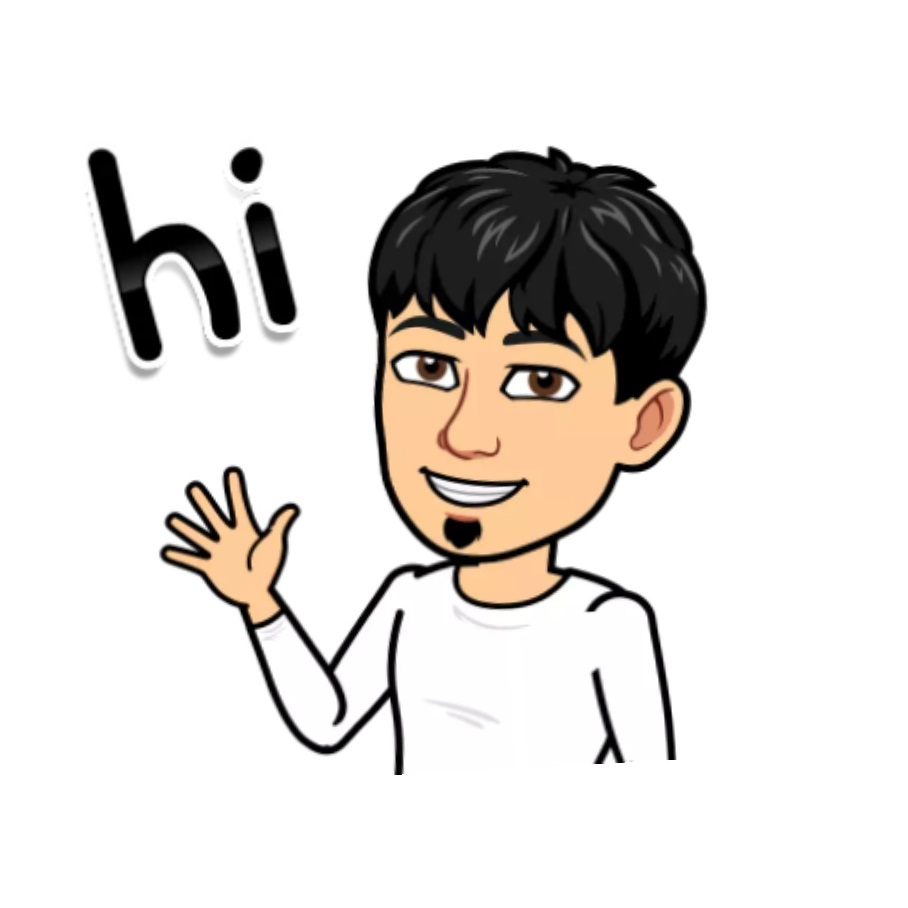
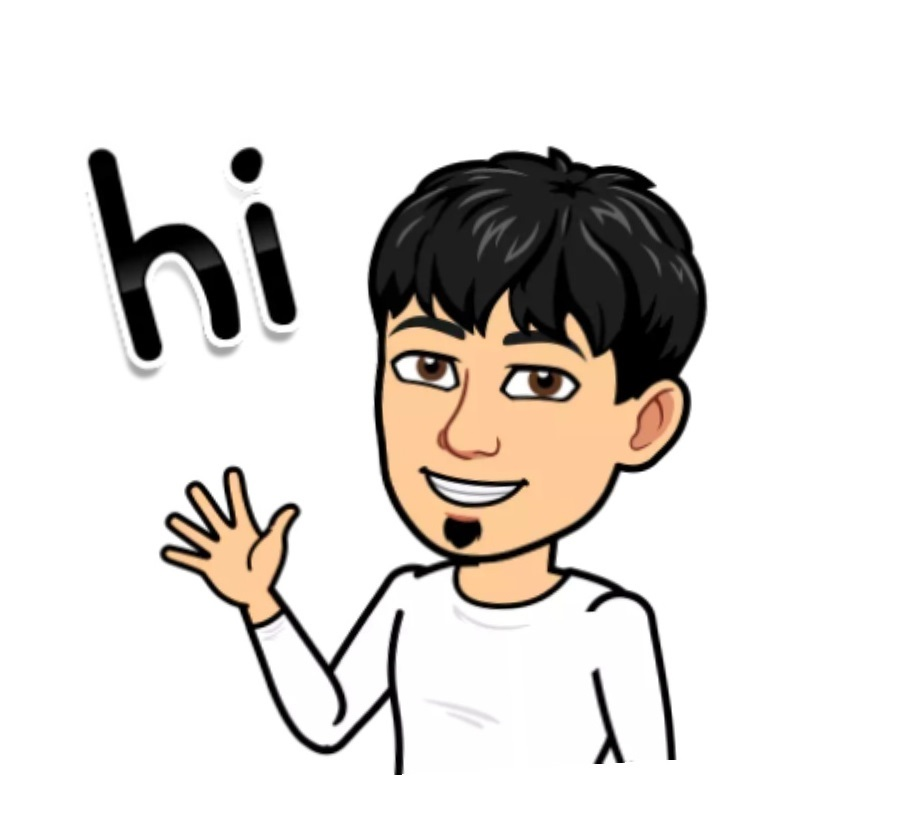
Committed for styling

Changed region(s): [[0.1542, 0.1523, 0.8018, 0.944], [0.0925, 0.1523, 0.3392, 0.4568], [0.4934, 0.8526, 0.5551, 0.8831]]

diff --git a/README.md b/README.md
@@ -1,5 +1,5 @@
 # K V Vignesh 
-<p align="center"><img src="assets/bitmoji.jpg" width="500" /> </p>
+<p align="center"><img src="assets/bitmoji.jpg" width="350" /> </p>
 
 ### Hi there 👋 
 
